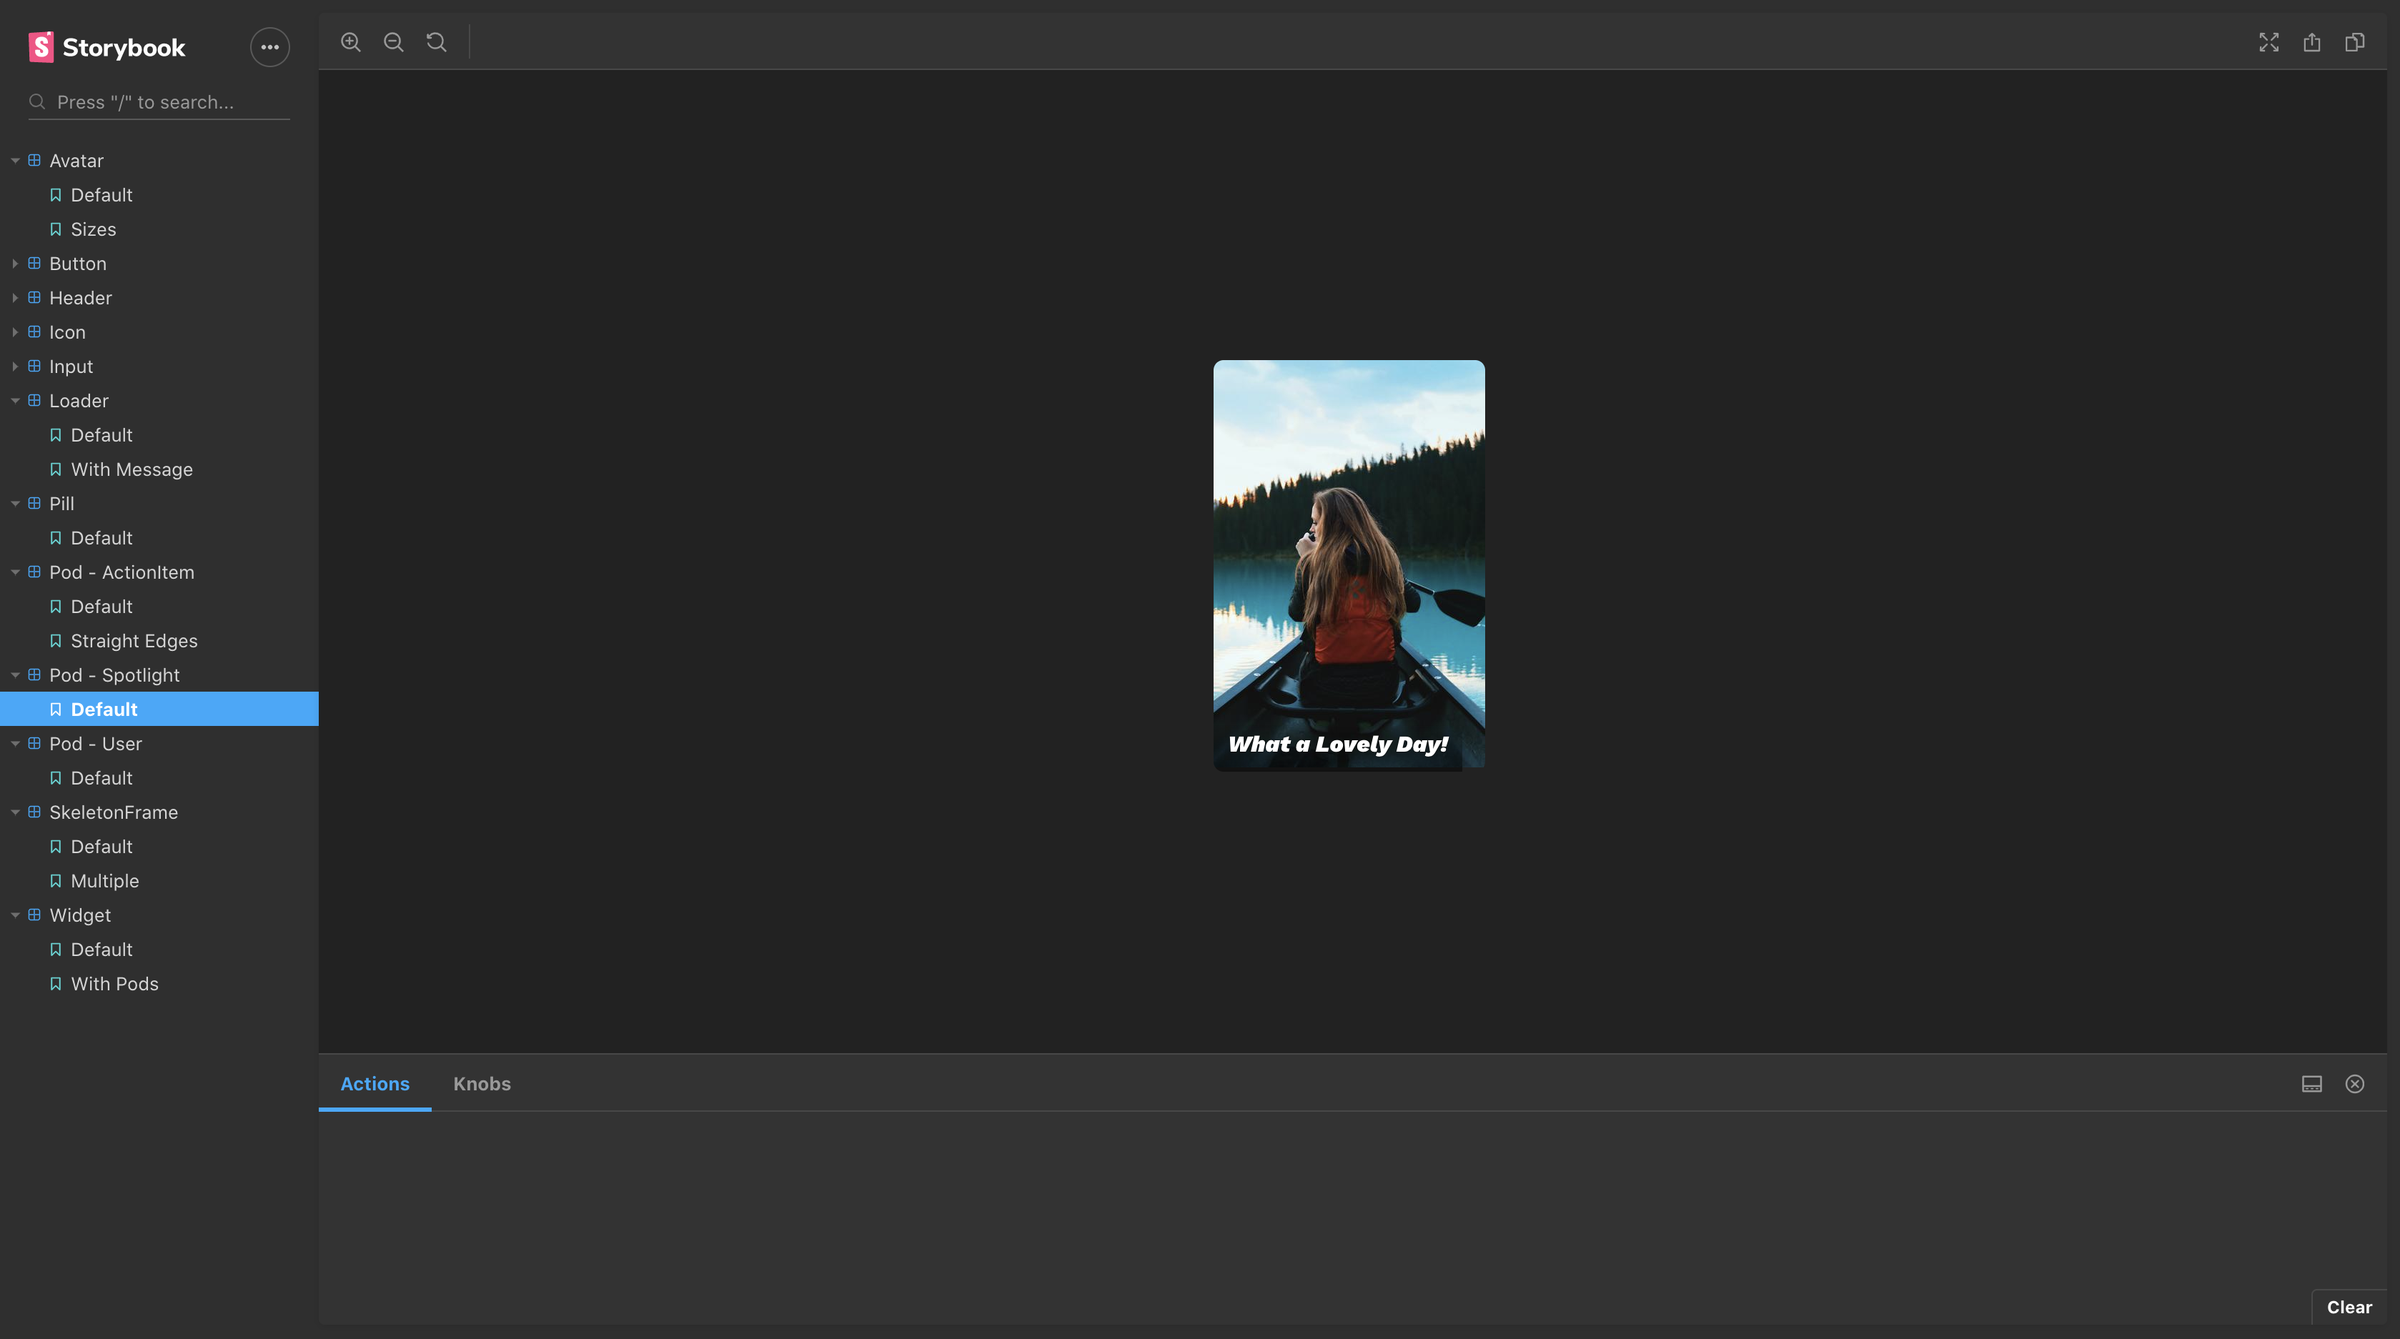
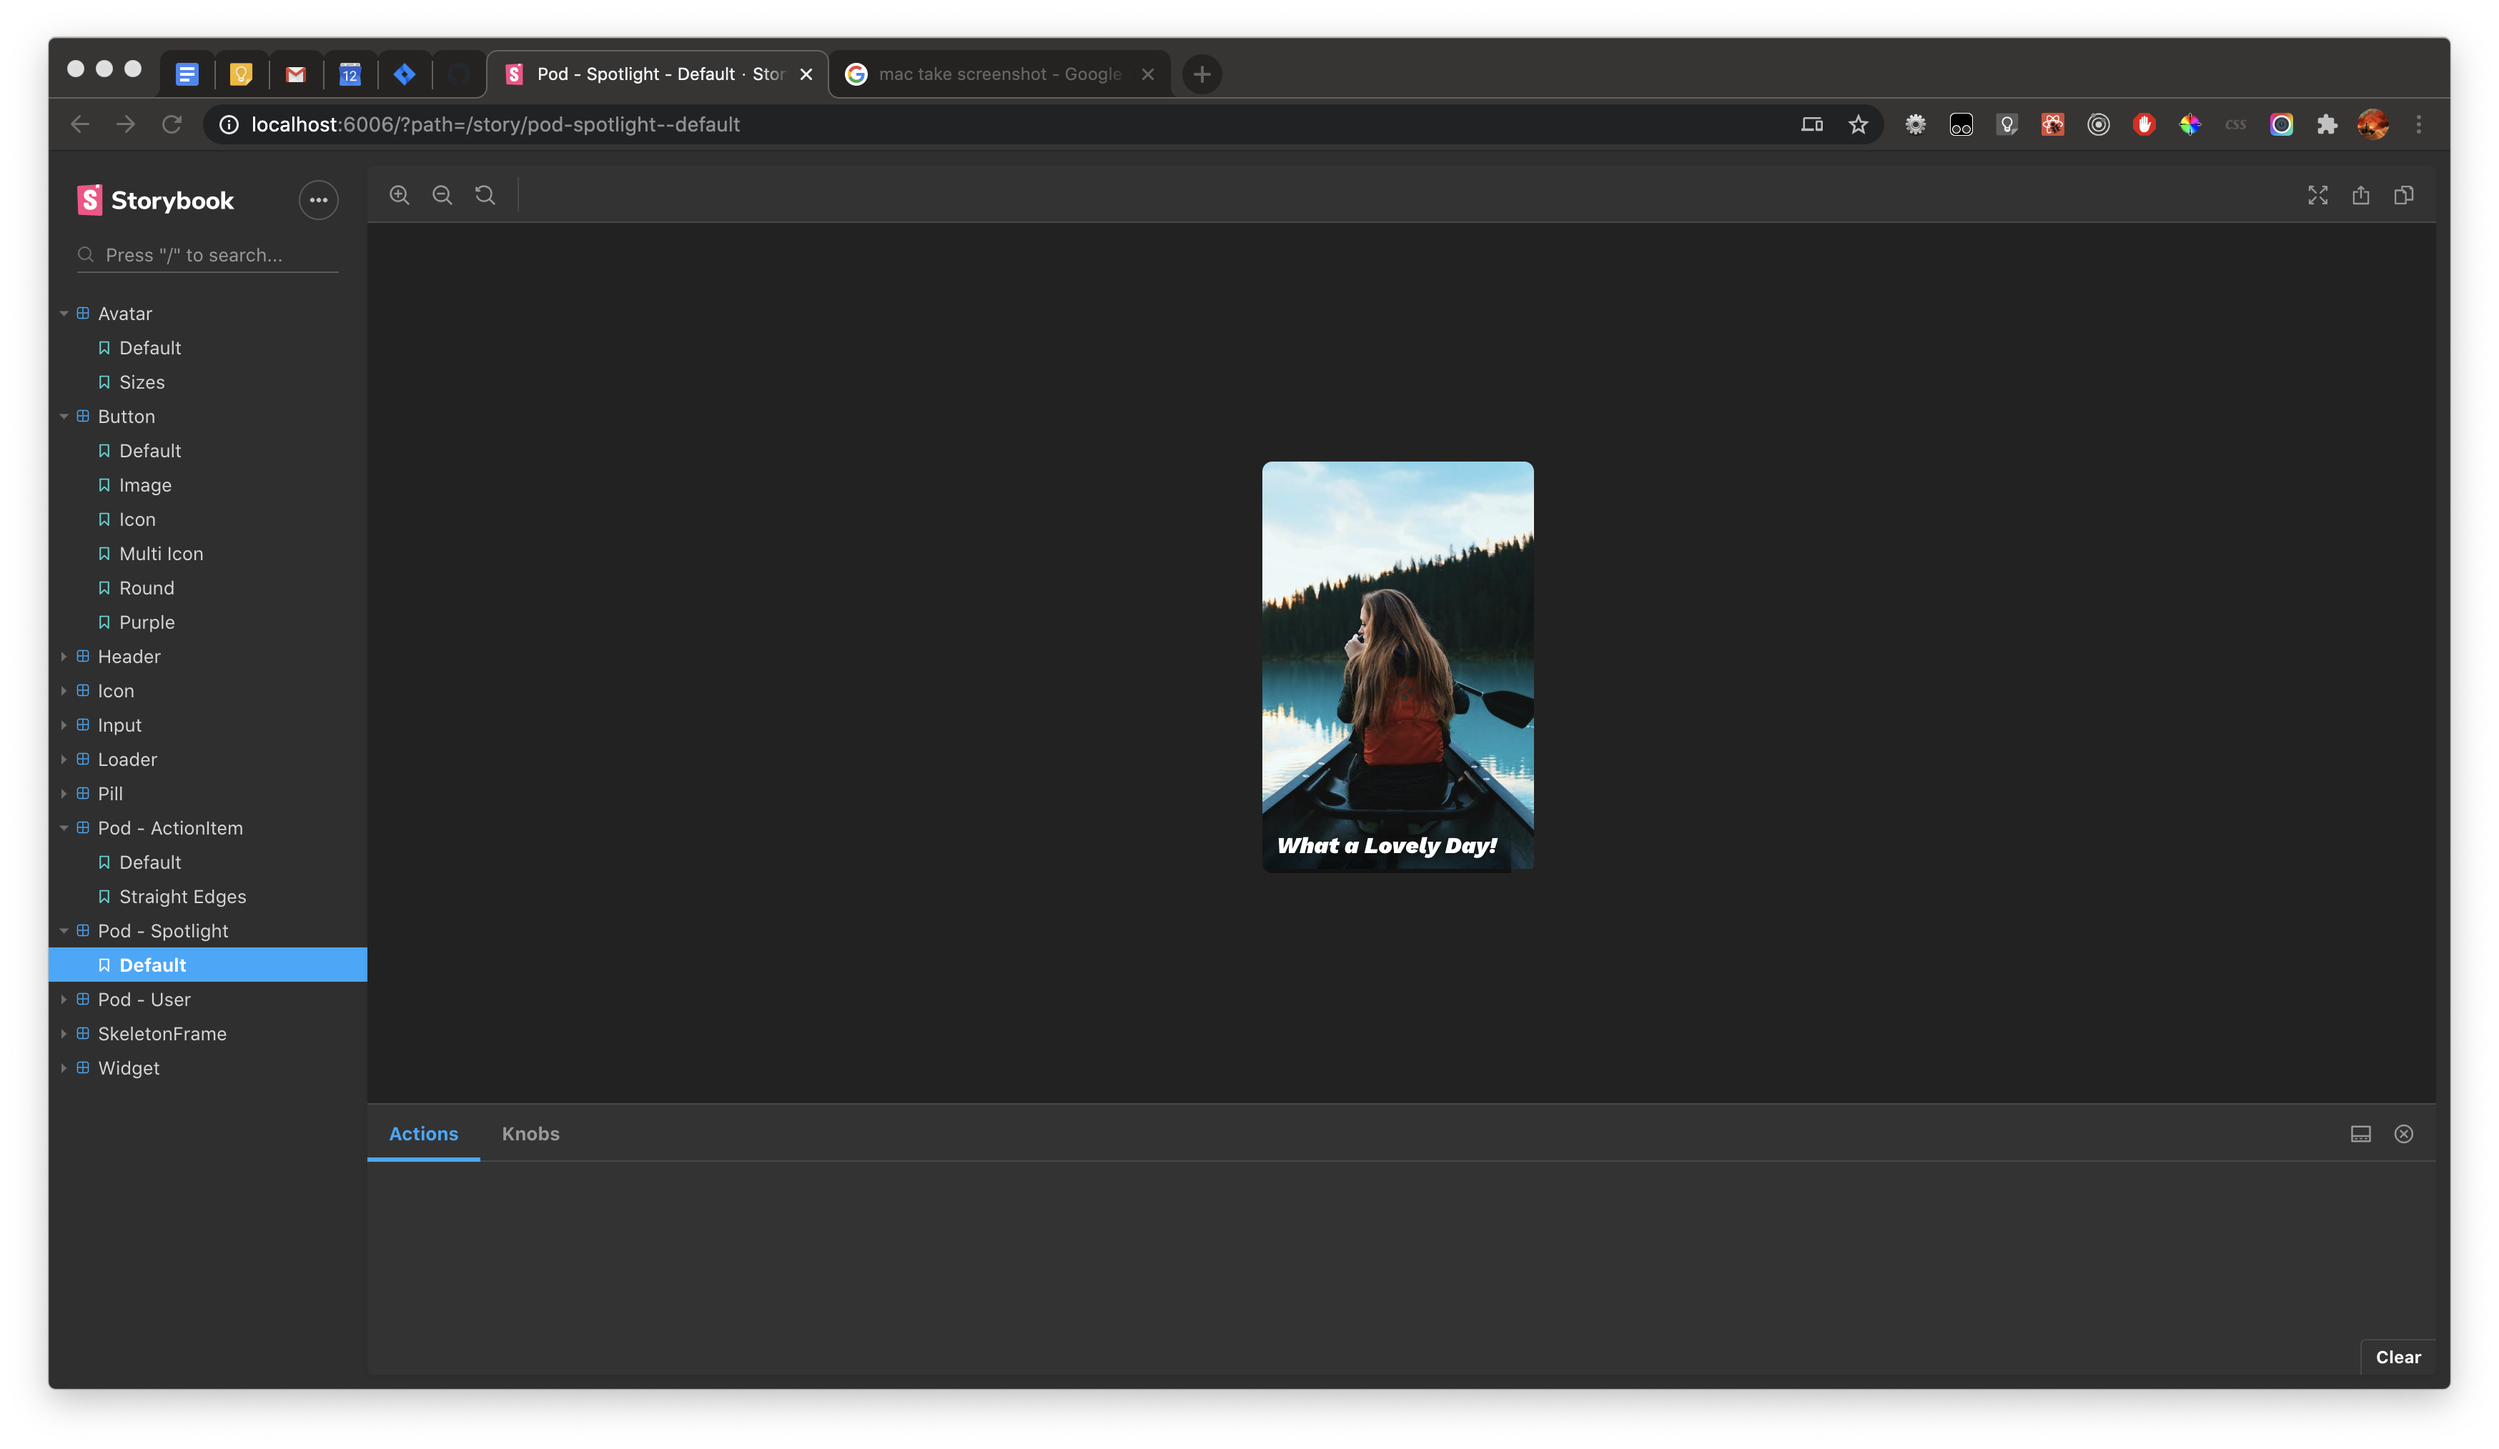
Readme updates

diff --git a/src/styles/_vars.scss b/src/styles/_vars.scss
@@ -36,4 +36,5 @@ $mobile-vh: calc(var(--vh, 1vh) * 100);
 
 $toolbar-height: 29px;
 
-$base-image-path: 'https://towhidkashem.github.io/snapchat-clone/images/';
+// $base-image-path: 'https://towhidkashem.github.io/snapchat-clone/images/';
+$base-image-path: '/images/';

diff --git a/README.md b/README.md
@@ -43,8 +43,8 @@
       <td align="center" valign="top">
         <a href="public/readme/snapchat.mp4">
           <img src="public/readme/snapchat.gif" />
-          <p>👆Click to see all implemented features</p>
         </a>
+        <p>👆Click the gif to see all implemented features</p>
       </td>
       <td valign="top">
         <h2 align="center">
@@ -307,8 +307,8 @@
       <td align="center" valign="top">
         <a href="">
           <img src="public/readme/cypress.png" width="600" />
-          👆Click to see the entire test suite being run
         </a>
+        <p>👆Click to see the test suite run</p>
       </td>
       <td valign="top">
         <ul>
